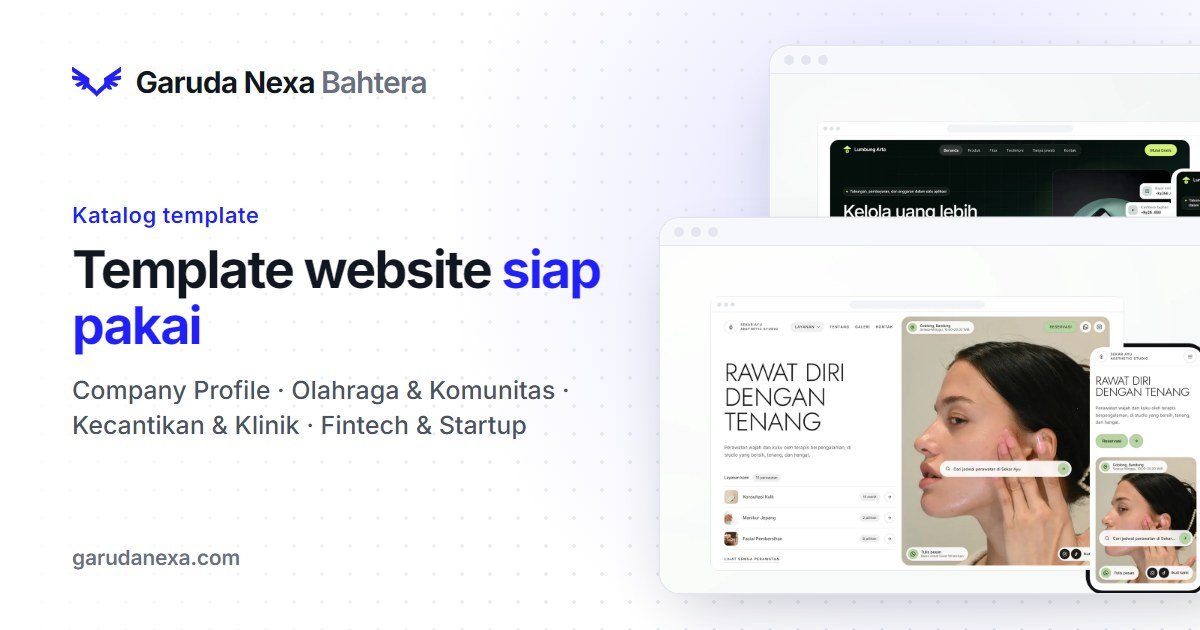
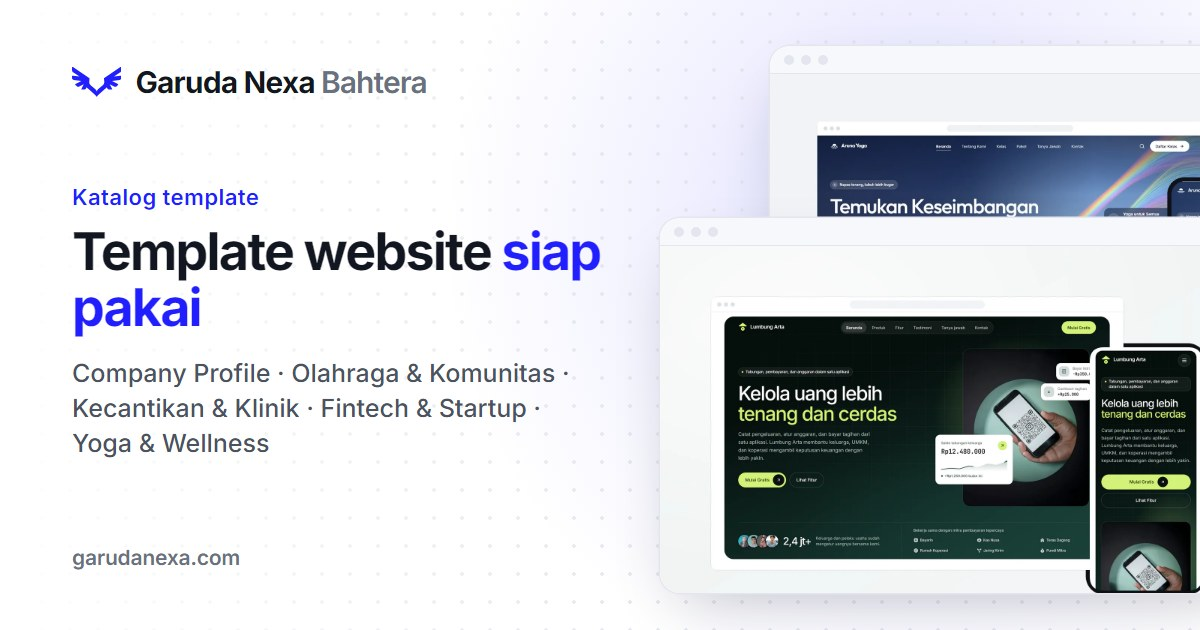
feat(seo): OG card for Serenity, catalog card lists Yoga & Wellness
template-serenity.jpg is new (was falling back to default.jpg). The catalog
card is re-rendered for the sixth template; category names no longer break
in the middle ("Yoga &" / "Wellness"), lines wrap only between categories.

Changed region(s): [[0.5858, 0.4825, 1.0, 0.9651], [0.0617, 0.3016, 0.5242, 0.7238], [0.6783, 0.2111, 1.0, 0.3619]]

diff --git a/src/seo/ogCards.generated.ts b/src/seo/ogCards.generated.ts
@@ -16,6 +16,7 @@ export const OG_CARDS: readonly string[] = [
   'template-aura-studio',
   'template-corporate-nexa',
   'template-finova',
+  'template-serenity',
   'template-startup-clean',
   'tentang',
 ];
